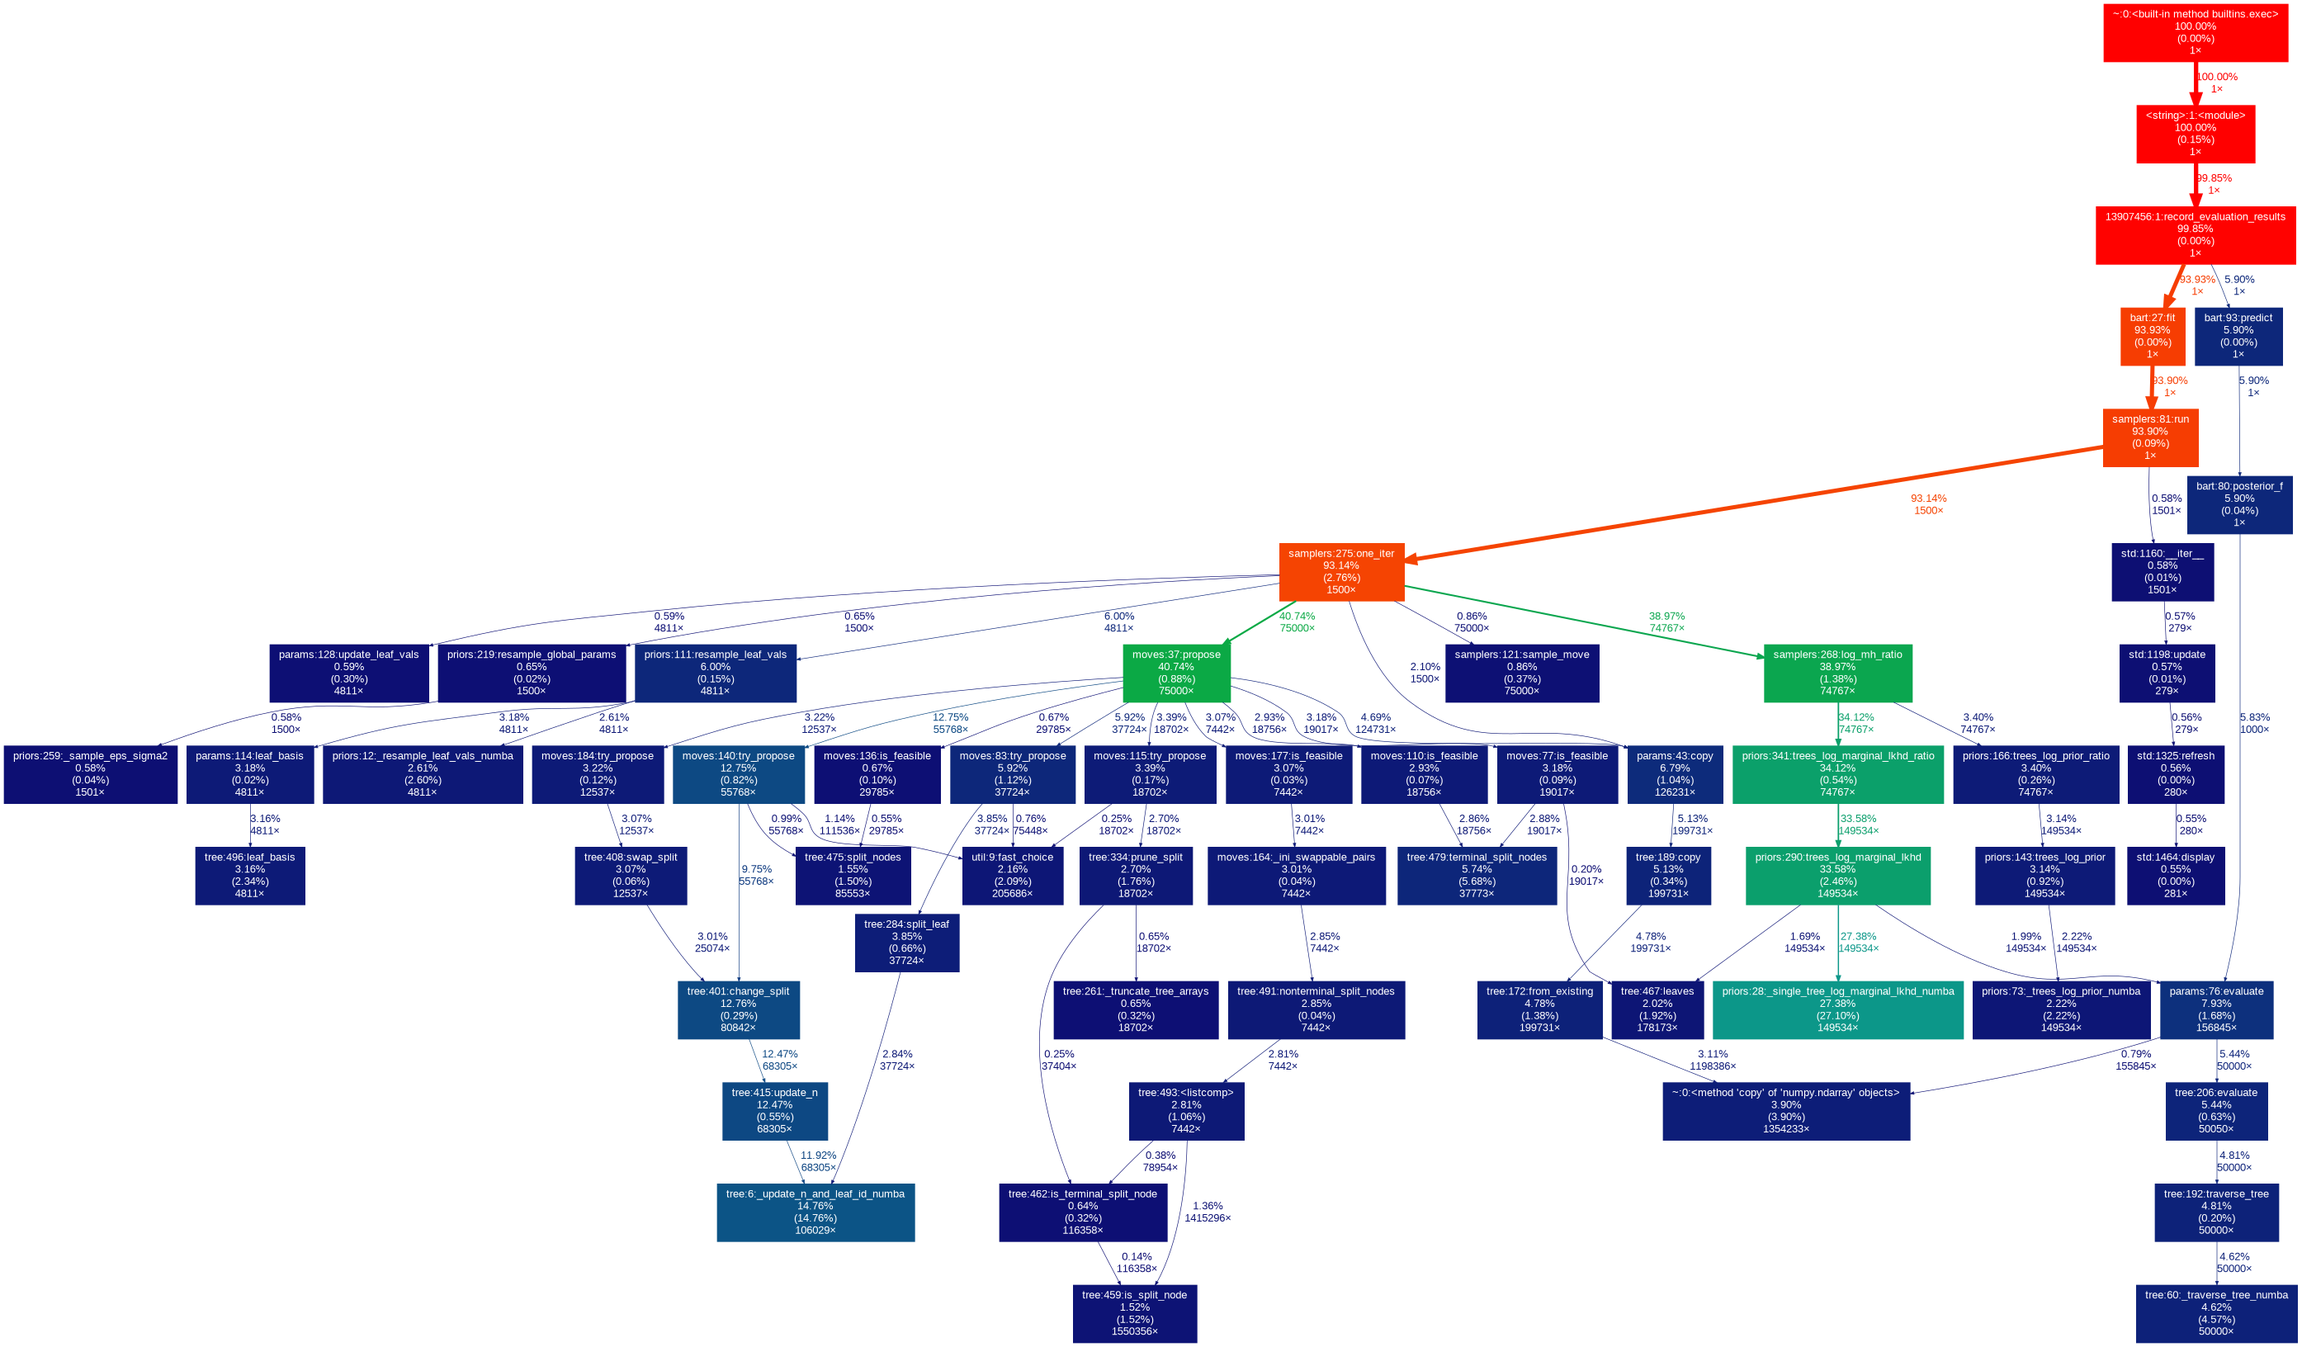
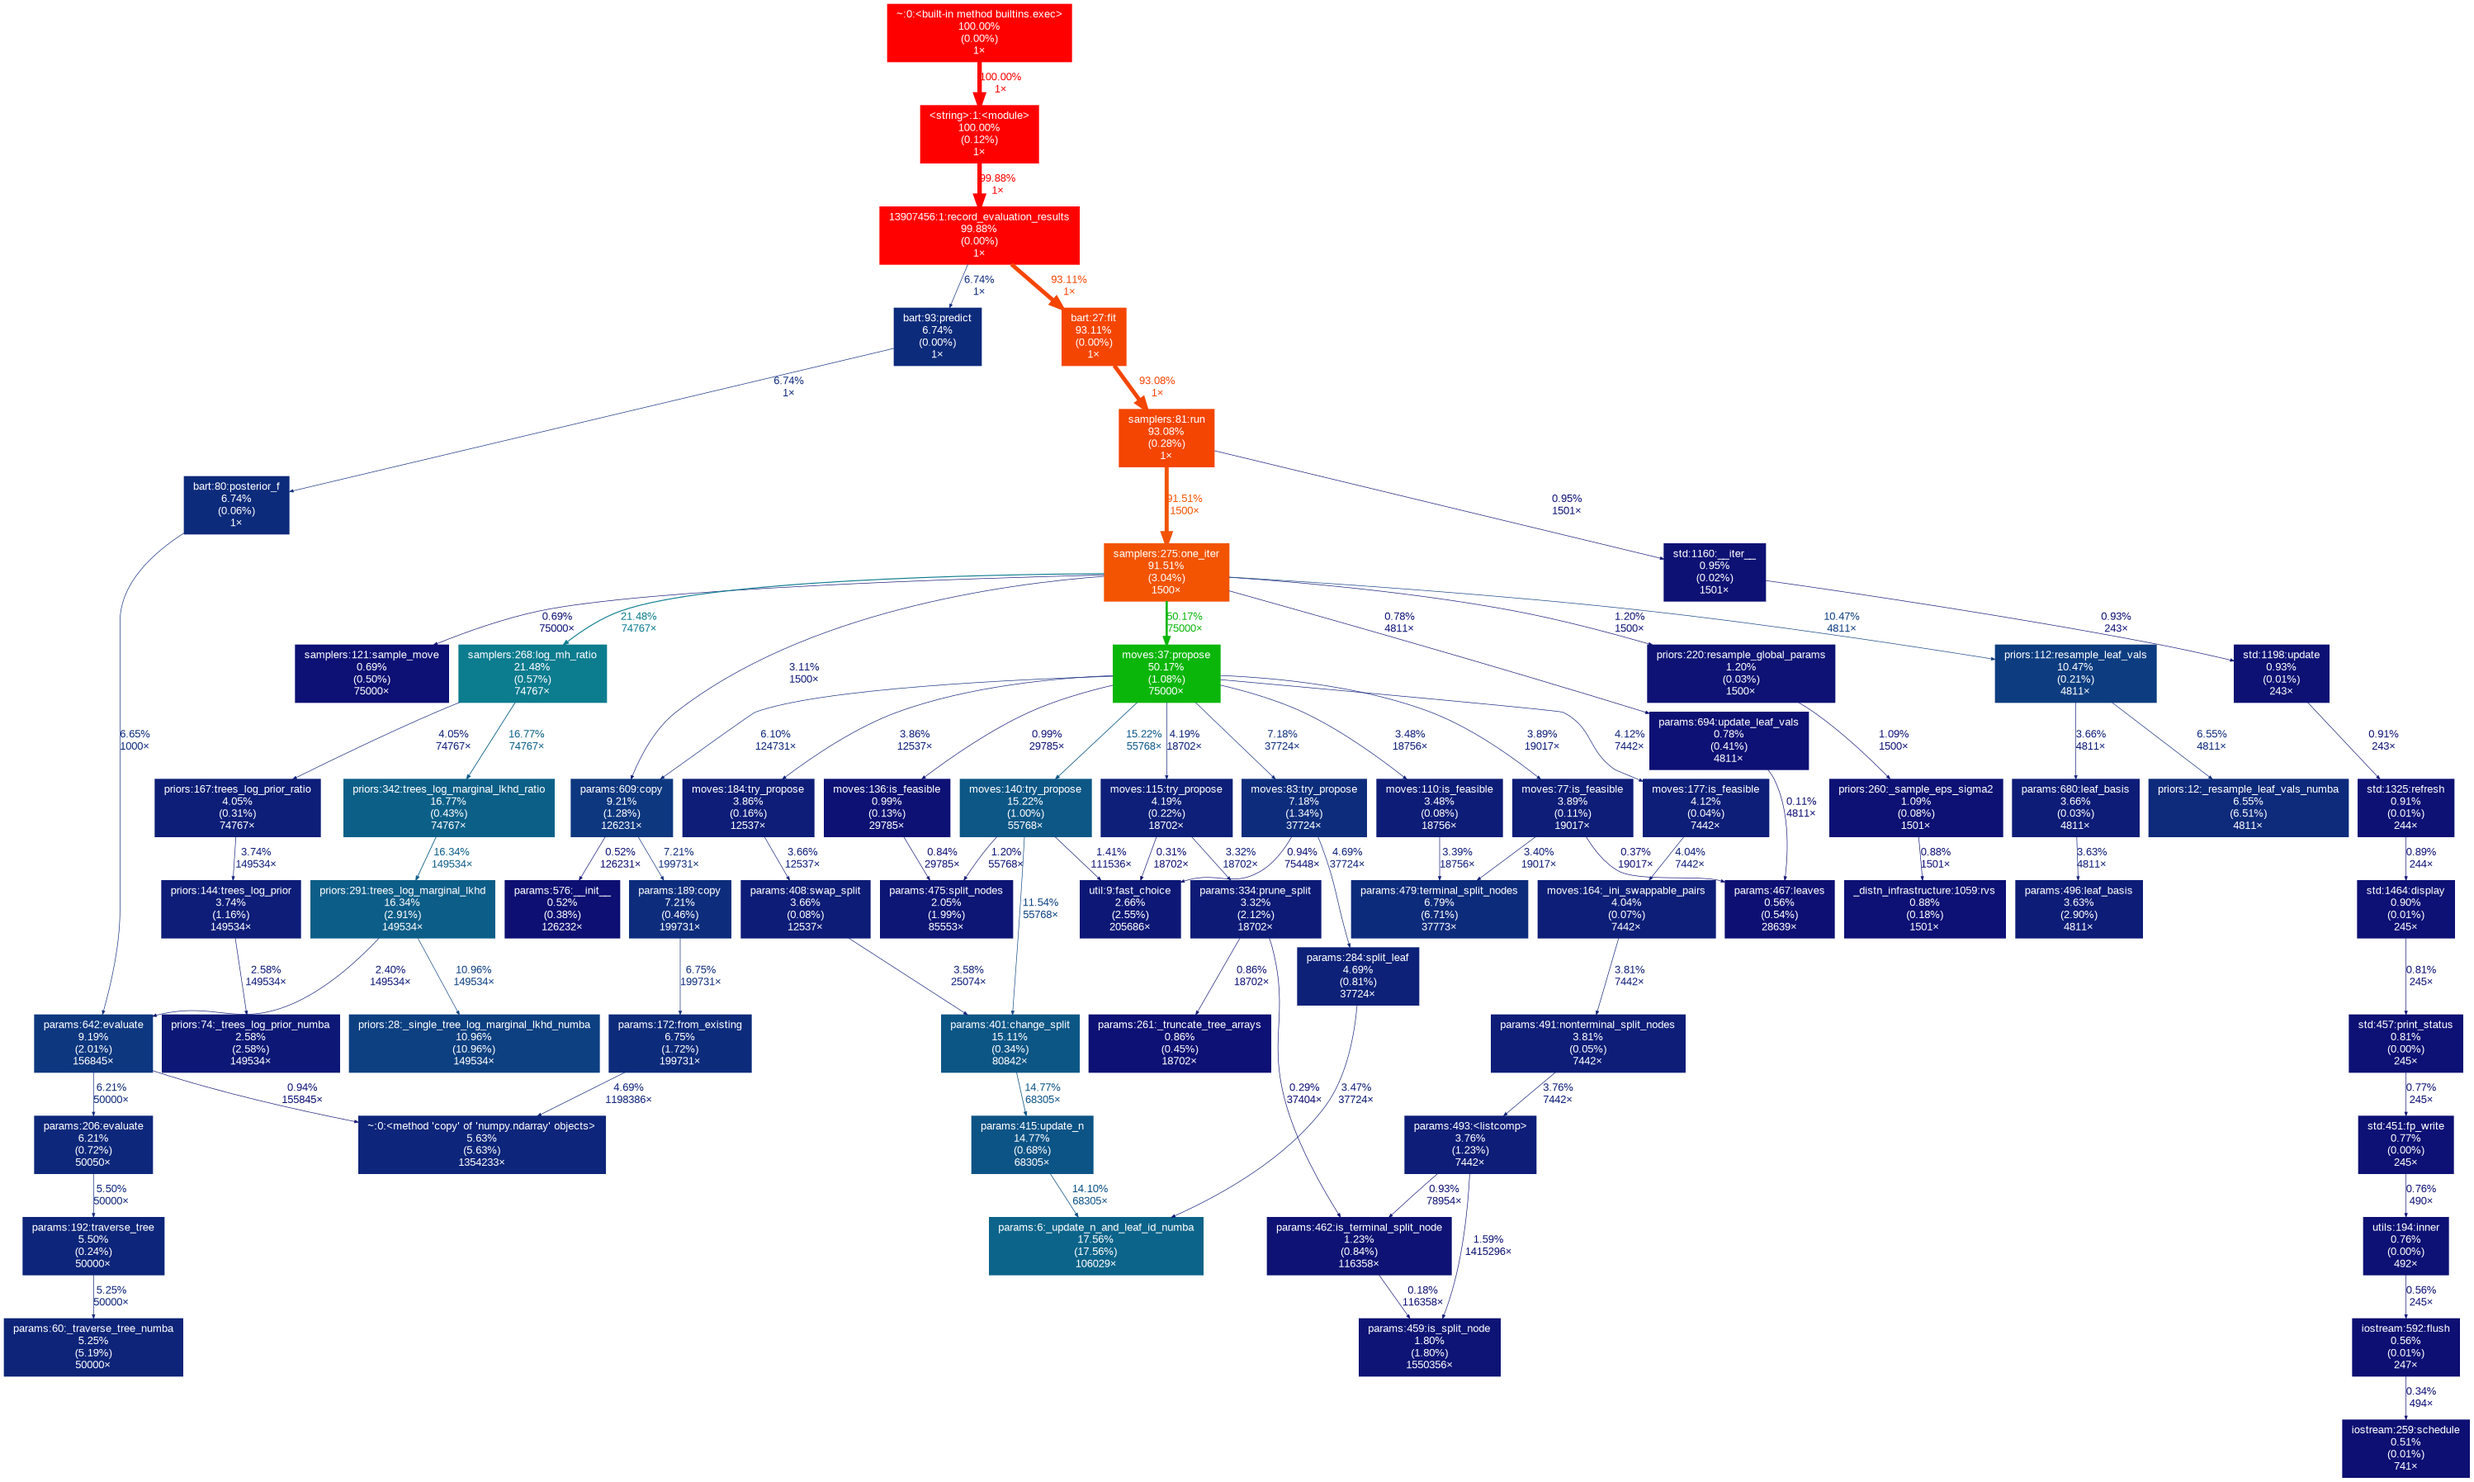
Improve DefaultBART and LogisticBART speed. Fix `update_data`.

Changed region(s): [[0.0, 0.0, 1.0, 1.0], [0.0624, 0.3125, 0.1248, 0.375], [0.7798, 0.3438, 0.8734, 0.375]]

diff --git a/bart_playground/priors.py b/bart_playground/priors.py
@@ -26,28 +26,29 @@ def _resample_leaf_vals_numba(leaf_basis, residuals, eps_sigma2, f_sigma2, rando
     return leaf_params_new
 
 @njit
-def _single_tree_log_marginal_lkhd_numba(leaf_ids, leaves, resids, eps_sigma2, f_sigma2):
+def _single_tree_log_marginal_lkhd_numba(leaf_ids, n_nodes, resids, eps_sigma2, f_sigma2):
     """
     Numba-optimized function to calculate log marginal likelihood when there is only one tree.
     """
     # Calculate counts for each leaf
-    counts = np.zeros(len(leaves), dtype=np.float32)
-    resid_sums = np.zeros(len(leaves), dtype=np.float32)
-    
+    node_counts = len(n_nodes)
+    resid_all = np.zeros(node_counts, dtype=np.float32)
+
     for i in range(len(leaf_ids)):
         leaf_sample = leaf_ids[i]
-        # Find which leaf index this corresponds to
-        for j in range(len(leaves)):
-            if leaves[j] == leaf_sample:
-                counts[j] += 1.0
-                resid_sums[j] += resids[i]
-                break
+        resid_all[leaf_sample] += resids[i]
     
+    ls_resids = np.sum(resids ** 2)
+    ridge_bias = 0.0
+    logdet = 0.0
     noise_ratio = eps_sigma2 / f_sigma2
-    logdet = np.sum(np.log(counts / noise_ratio + 1))
     
-    ls_resids = np.sum(resids ** 2) - np.sum((resid_sums ** 2) / counts)
-    ridge_bias = np.sum(resid_sums ** 2 / (counts * (counts / noise_ratio + 1)))
+    for node in range(node_counts):
+        # resid is non-zero only for leaf nodes
+        if resid_all[node] != 0.0:
+            logdet += math.log(n_nodes[node] / noise_ratio + 1.0)
+            ls_resids -= (resid_all[node] ** 2) / n_nodes[node]
+            ridge_bias += (resid_all[node] ** 2) / (n_nodes[node] * (n_nodes[node] / noise_ratio + 1.0))
 
     return - (logdet + (ls_resids + ridge_bias) / eps_sigma2) / 2
 
@@ -323,9 +324,9 @@ class BARTLikelihood:
             tree = bart_params.trees[tree_ids[0]]
             return _single_tree_log_marginal_lkhd_numba(
                 tree.leaf_ids, 
-                tree.leaves,
+                tree.n,
                 resids, 
-                bart_params.global_params["eps_sigma2"], 
+                bart_params.global_params["eps_sigma2"][0], 
                 self.f_sigma2
             )
         else:
@@ -533,21 +534,22 @@ class LogisticLikelihood(BARTLikelihood):
         if len(tree_ids) != 1:
             raise ValueError("Logistic likelihood only supports single tree evaluation.")
         
-        lb_bool = bart_params.leaf_basis(tree_ids)
-        leaf_basis = lb_bool.astype(np.float32)
-        # leaf_basis is an array of shape (n_samples, n_leaves)
         tree_eval = bart_params.evaluate(all_except=tree_ids)
         # dim of tree_eval is (n_samples)
         latent_tree_product = self.latents * np.exp(tree_eval)
         # dim of latent_tree_product is (n_samples)
+        
+        tree = bart_params.trees[tree_ids[0]]
+        leaf_ids = tree.leaf_ids
+        leaves_id = tree.leaves
 
         # Vectorized computation of rh and sh for all leaves
         # rh[t] = sum of data_y values where leaf_basis[i, t] == 1
-        rh = leaf_basis.T @ data_y  # Shape: (n_leaves,)
+        rh = np.bincount(leaf_ids, weights=data_y)[leaves_id]  # Shape: (n_leaves,)
 
         # sh[t] = sum of latents[i] * np.exp(tree_eval)[i] where leaf_basis[i, t] == 1
-        sh = leaf_basis.T @ latent_tree_product  # Shape: (n_leaves,)
-        
+        sh = np.bincount(leaf_ids, weights=latent_tree_product)[leaves_id]  # Shape: (n_leaves,)
+
         self.parent.rh = rh
         self.parent.sh = sh
         self.parent.param = bart_params

diff --git a/bart_playground/params.py b/bart_playground/params.py
@@ -22,14 +22,14 @@ def _update_n_and_leaf_id_numba(starting_node, dataX, append: bool, vars, thresh
         if _is_in_subtree(j, starting_node):
             subtree_nodes[j] = True
             if not append:
-                n[j] = 0
+                n[j] = 0 # starting node is not updated
         else:
             subtree_nodes[j] = False
     
     for i in range(dataX.shape[0]):
-        current_leaf = leaf_ids[offset + i]
+        current_node = leaf_ids[offset + i]
         # Need update
-        if append or subtree_nodes[current_leaf]:
+        if append or current_node == starting_node or subtree_nodes[current_node]:
             leaf_ids[offset + i] = _traverse_tree_single(
                 dataX[i], vars, thresholds, starting_node, n
             )
@@ -47,8 +47,8 @@ def _update_n_and_leaf_id_numba(starting_node, dataX, append: bool, vars, thresh
 def _is_in_subtree(node_id, ancestor_id):
     # A node cannot be in the subtree of a node with a larger index
     # in this binary tree representation.
-    # The ancestor node is considered to be in its own subtree.
-    if node_id < ancestor_id:
+    # The ancestor node is not considered to be in its own subtree.
+    if node_id <= ancestor_id:
         return False
     
     current_node = node_id
@@ -89,16 +89,14 @@ def _traverse_tree_single(X: np.ndarray, vars: np.ndarray, thresholds: np.ndarra
     """
     current_node = starting_node
     while vars[current_node] >= 0:  # While it's a split node
-        if n_to_update is not None:
-            n_to_update[current_node] += 1 # Increment count for the current split node
         split_var = vars[current_node]
         threshold = thresholds[current_node]
         if X[split_var] <= threshold:
             current_node = 2 * current_node + 1
         else:
             current_node = 2 * current_node + 2
-    if n_to_update is not None:
-        n_to_update[current_node] += 1 # Increment count for the leaf node
+        if n_to_update is not None:
+            n_to_update[current_node] += 1 # Increment count for the subtree node
     return current_node
 
 class Tree:
@@ -603,7 +601,7 @@ class Parameters:
         self.cache = None
         for tree in self.trees:
             tree.evals = None
-            tree.node_indicators = None
+            tree.leaf_ids = None
             tree.n = None
             
     def copy(self, modified_tree_ids=None):
